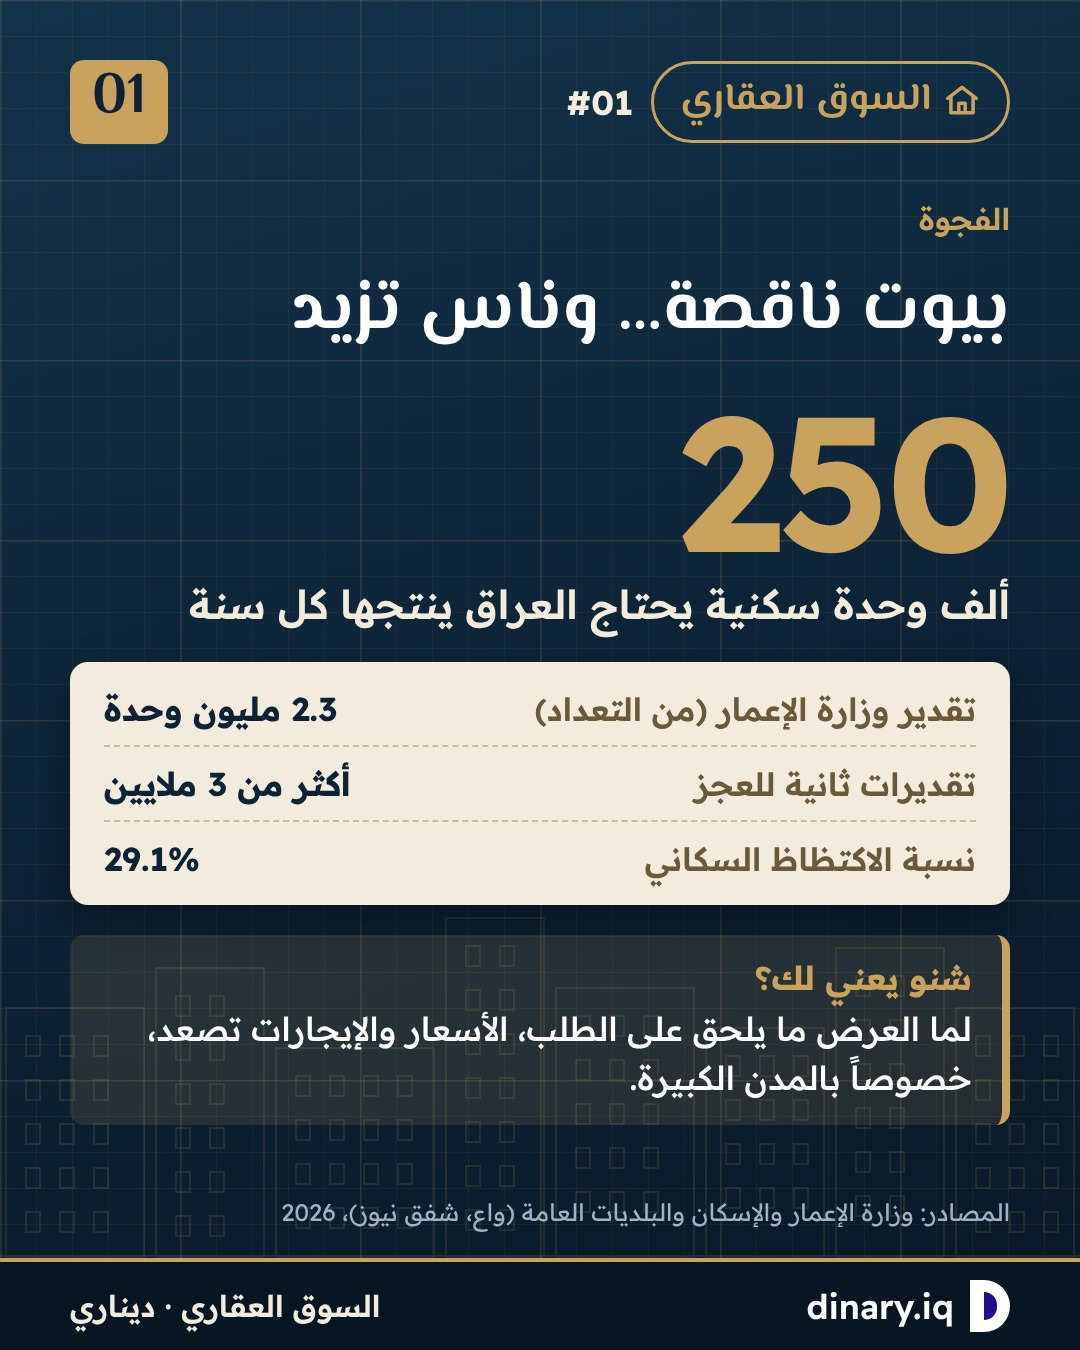
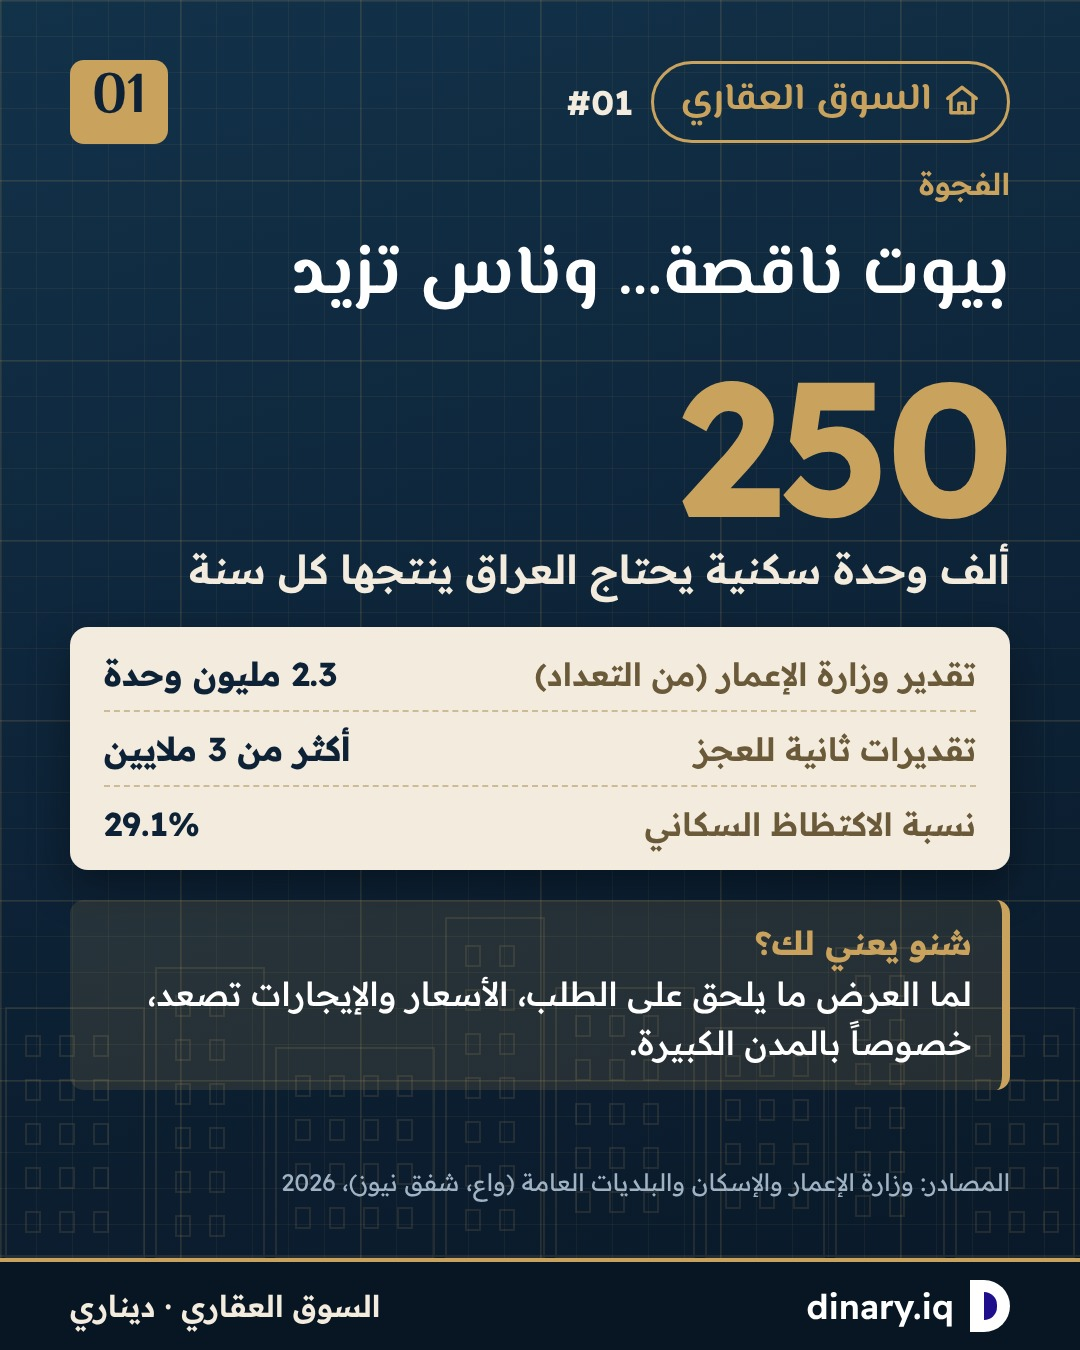
Carousel: swipe hint bottom-left, real-estate slides kept inside the 1:1 centre crop
Claude-Session: https://claude.ai/code/session_01TadTp6nTgwWxAHUsWbYsRm

diff --git a/tool/post.py b/tool/post.py
@@ -55,7 +55,7 @@ h2{{font-size:70px;font-weight:700;line-height:1.25}}
 .desc{{font-size:34px;line-height:1.55;color:{SOFT}}}
 .kick{{font-size:30px;font-weight:600;color:{MUTED}}}
 .src{{margin-top:auto;font-size:24px;color:{MUTED};line-height:1.5}}
-.cta{{margin-top:auto;font-size:34px;font-weight:700}} .cta small{{display:block;font-size:28px;font-weight:400;color:{MUTED};margin-top:6px}}
+.cta{{margin-top:auto;font-size:34px;font-weight:700}} .cta.swipe{{align-self:flex-end;display:flex;align-items:center;gap:14px;background:rgba(255,255,255,.08);border-radius:999px;padding:10px 30px 14px}} .cta small{{display:block;font-size:28px;font-weight:400;color:{MUTED};margin-top:6px}}
 .foot{{position:absolute;bottom:0;left:0;right:0;height:92px;background:{DEEP};border-top:6px solid {LIME};display:flex;align-items:center;justify-content:space-between;padding:0 70px}}
 .foot.st{{bottom:300px;left:70px;right:70px;border-radius:20px}}
 .logo{{display:flex;align-items:center;gap:16px}}
@@ -97,6 +97,9 @@ h1,h2,.nsub{{font-family:H}} h1 span,h2 span{{color:{BRASS}}}
 .foot{{background:#081624;border-top:4px solid {BRASS}}}
 .foot .when{{color:{SAND}}}
 .decor{{position:absolute;pointer-events:none}}
+.main{{top:165px;bottom:150px}}
+.cover .main,.list .main{{justify-content:center}} .cover .cta.swipe,.list .cta{{margin-top:10px}}
+.cta.swipe{{background:rgba(201,162,94,.16);color:{SAND}}}
 """
 HOUSE = f'<svg width="38" height="38" viewBox="0 0 24 24" fill="none" stroke="{BRASS}" stroke-width="2.2" stroke-linecap="round" stroke-linejoin="round"><path d="M3 11l9-7 9 7"/><path d="M5 10v10h14V10"/><path d="M10 20v-6h4v6"/></svg>'
 def skyline(opacity):
@@ -141,7 +144,7 @@ def slide(s):
         box = (f'<div class="box big2">{CLOCK}<div><b>{e(s["box_title"])}</b><span>{e(s.get("box_sub"))}</span></div></div>'
                if s.get("box_title") else "")
         chip = f'<div class="chip">{e(s["chip"])}</div>' if s.get("chip") else ""
-        inner = f'{chip}<h1>{title(s["title"], s.get("title2"))}</h1>{big}{lst}{box}<div class="cta">{e(s.get("cta"))}</div>'
+        inner = f'{chip}<h1>{title(s["title"], s.get("title2"))}</h1>{big}{lst}{box}<div class="cta swipe">{e(s.get("cta"))}</div>'
         return True, False, inner
     if t == "item":
         rows = "".join(f'<div class="r"><div class="k">{e(k)}</div><div class="v{" red" if i == len(s["rows"]) - 1 and s.get("last_red") else ""}">{e(v)}</div></div>'
@@ -175,7 +178,7 @@ def page(s):
     corner, show_idx, inner = slide(s)
     h = 1920 if story else 1350
     return (f'<!doctype html><html lang="ar" dir="rtl"><head><meta charset="utf-8"><style>{CSS}{RE_CSS if RE else ""}'
-            f'body{{width:1080px;height:{h}px}}</style></head><body class="{"story" if story else ""}">'
+            f'body{{width:1080px;height:{h}px}}</style></head><body class="{"story" if story else s["type"]}">'
             f'<div class="grid"></div>{"<div class=corner></div>" if corner else ""}{decor(s) if RE else ""}'
             f'{"" if story else top(s, show_idx)}<div class="main">{inner}</div>{foot(story)}</body></html>')
 
